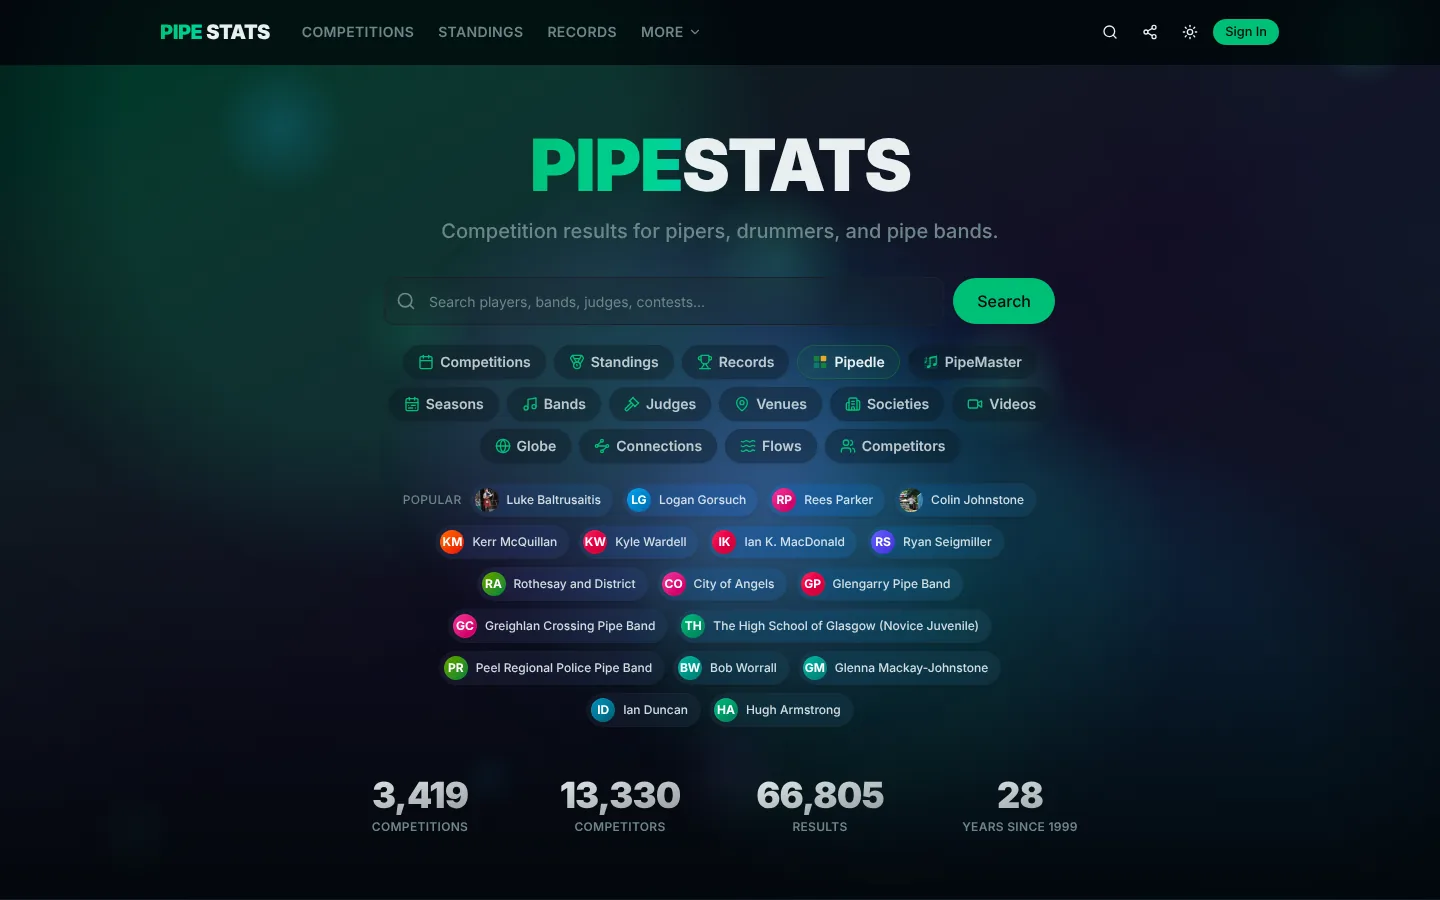
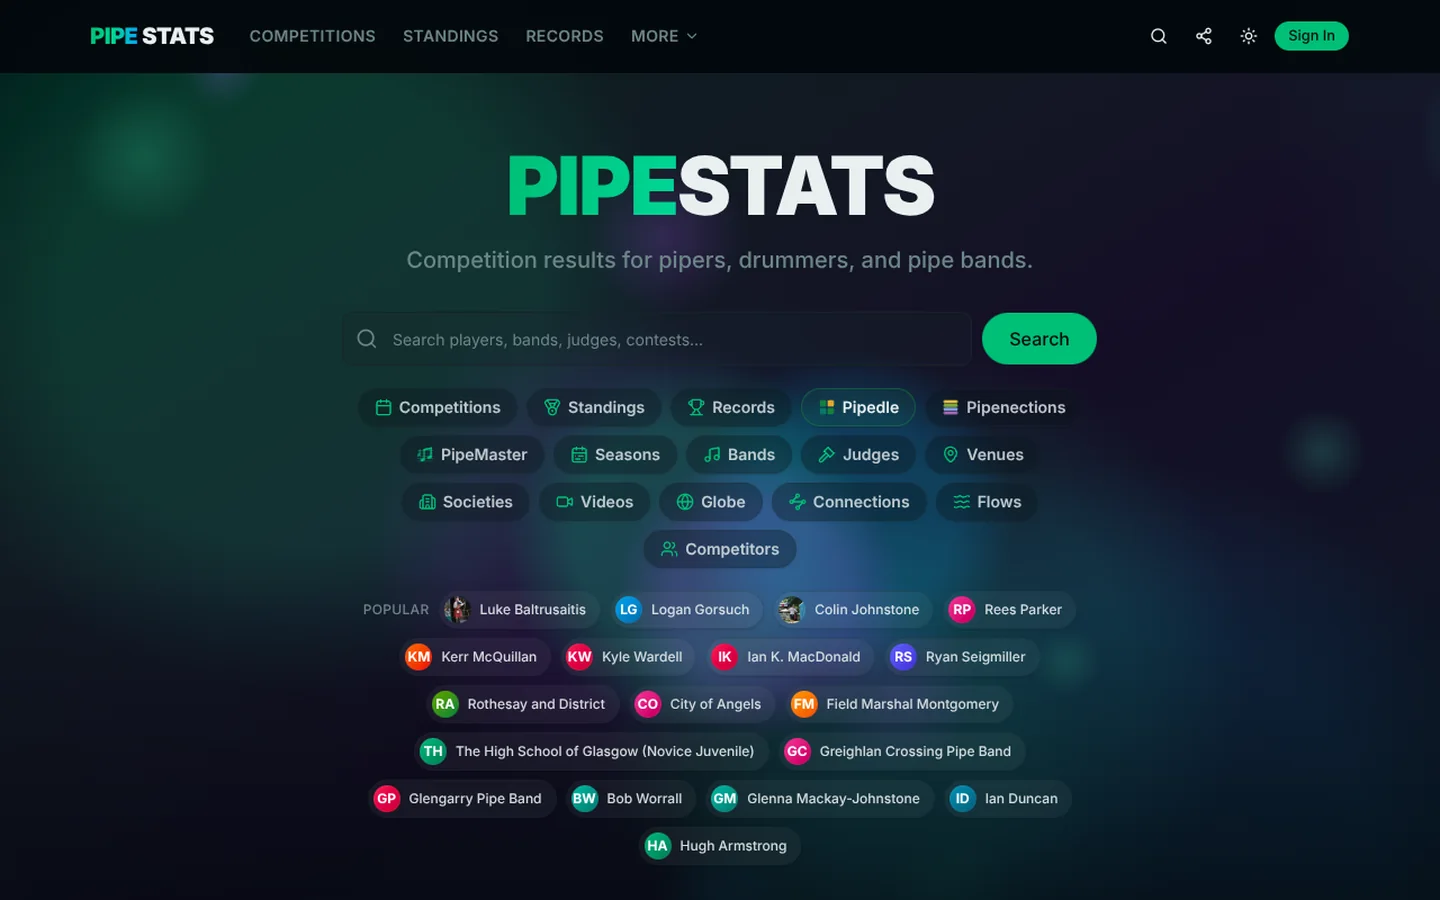
Update the Pipe Stats section with Pipenections, Connections and Flows
New screenshots, taken from the latest Pipe Stats code run locally against
its public data: Connections (who competes against whom), Flows (Sankey
diagrams of grade and society movement) and Pipenections (the new daily
group-the-tiles game, shown on a past puzzle so today's answers stay hidden).
Connections and Flows are new tabs in the Pipe Stats showcase, Pipenections
is a third card under Inside Pipe Stats, and the home screenshot shows the
new quick links.

Totals now come from the database: 3,471 competitions, 13,593 competitors
and 258,016 results (190,808 solo and 67,208 band). The earlier 66,805 was
the band results alone.

Claude-Session: https://claude.ai/code/session_01HEi2GT7JxVwUBsLGpk56Zs

diff --git a/index.html b/index.html
@@ -214,10 +214,12 @@
           <li><b>Search</b> competitors, bands, judges and venues, each with a full results history</li>
           <li><b>Standings and records</b> by season and grade, plus all-time wins, streaks and milestones</li>
           <li><b>A 3D globe</b> of contests and venues</li>
+          <li><b>Connections:</b> a map of who competes against whom, with solo players and bands clustered by the contests they share, and the judges who judge them</li>
+          <li><b>Flows:</b> Sankey diagrams of how players and bands move between grades from season to season, and which societies they travel to</li>
           <li><b>Profiles</b> you can claim, follow and correct, and a form to submit missing results</li>
         </ul>
-        <dl class="facts reveal"><div><dd>3,419</dd><dt>competitions</dt></div><div><dd>13,330</dd><dt>competitors</dt></div><div><dd>66,805</dd><dt>results</dt></div><div><dd>1999</dd><dt>data from</dt></div></dl>
-        <p class="label reveal">Built with <b>Next.js 16, React 19, TypeScript, Tailwind 4, Supabase, MapLibre GL</b><br>Totals as shown on the live homepage, October 2026</p>
+        <dl class="facts reveal"><div><dd>3,471</dd><dt>competitions</dt></div><div><dd>13,593</dd><dt>competitors</dt></div><div><dd>258,016</dd><dt>results</dt></div><div><dd>1999</dd><dt>data from</dt></div></dl>
+        <p class="label reveal">Built with <b>Next.js 16, React 19, TypeScript, Tailwind 4, Supabase, MapLibre GL</b><br>Totals counted from the database, November 2026: 190,808 solo and 67,208 band results</p>
         <div class="actions reveal">
           <a class="btn btn-primary" href="https://pipestats.app" target="_blank" rel="noopener">Visit pipestats.app <svg class="arr" aria-hidden="true"><use href="#i-arrow"/></svg></a>
           <a class="btn btn-ghost" href="https://pipestats.app/competitors/johnstone-colin" target="_blank" rel="noopener">My profile <svg class="arr" aria-hidden="true"><use href="#i-arrow"/></svg></a>
@@ -228,10 +230,12 @@
           <div class="device">
             <div class="device-bar"><i></i><i></i><i></i><span class="url"><svg aria-hidden="true"><use href="#i-lock"/></svg>pipestats.app</span></div>
             <div class="device-screen">
-              <figure class="shot is-active" data-lb data-title="Home" data-caption="<b>Home.</b> Search, quick links to every section and live totals."><img src="assets/img/ps-home.webp" width="1440" height="900" alt="Pipe Stats home page with a search bar, quick links to Competitions, Standings, Records, Pipedle and PipeMaster, and live totals." loading="lazy"></figure>
+              <figure class="shot is-active" data-lb data-title="Home" data-caption="<b>Home.</b> Search, and quick links to every section, including Pipedle, Pipenections, PipeMaster, Connections and Flows."><img src="assets/img/ps-home.webp" width="1440" height="900" alt="Pipe Stats home page with a search bar and quick links to Competitions, Standings, Records, Pipedle, Pipenections, PipeMaster, Connections, Flows and more." loading="lazy"></figure>
               <figure class="shot" data-lb data-title="Standings" data-caption="<b>Standings.</b> The 2026 season by grade, across every society."><img src="assets/img/ps-standings.webp" width="1440" height="900" alt="Pipe Stats 2026 standings page showing season leaders for light music, piobaireachd, drumming and pipe bands." loading="lazy"></figure>
               <figure class="shot" data-lb data-title="Records" data-caption="<b>Records and milestones.</b> Most wins, longest streaks, longest careers."><img src="assets/img/ps-records.webp" width="1440" height="900" alt="Pipe Stats records page with cards for most wins and longest winning streak." loading="lazy"></figure>
               <figure class="shot" data-lb data-title="Globe" data-caption="<b>Globe.</b> Every contest and venue, clustered by society."><img src="assets/img/ps-globe.webp" width="1440" height="900" alt="Pipe Stats 3D globe with clusters of contests across North America and the UK." loading="lazy"></figure>
+              <figure class="shot" data-lb data-title="Connections" data-caption="<b>Connections.</b> Solo players as circles, clustered by the contests they share. Switch to bands, add the judges or group by society."><img src="assets/img/ps-connections.webp" width="1440" height="900" alt="Pipe Stats Connections map: thousands of coloured circles in clusters labelled by society and grade, such as EUSPBA Grade 1 and PPBSO Grade 2." loading="lazy"></figure>
+              <figure class="shot" data-lb data-title="Flows" data-caption="<b>Flows.</b> Each column is a season. The bands show where players went next, from grade to grade, with those who joined or stopped."><img src="assets/img/ps-flows.webp" width="1440" height="900" alt="Pipe Stats Flows page: a Sankey diagram of solo players moving between grades from 2021 to 2026, with New and Stopped blocks." loading="lazy"></figure>
             </div>
           </div>
           <div class="tabs" role="tablist" aria-label="Pipe Stats screens"></div>
@@ -243,7 +247,7 @@
     <div style="margin-top:clamp(56px,8vw,104px)">
       <div class="subhead">
         <h3 class="h3 reveal">Inside Pipe Stats</h3>
-        <p class="reveal">Two tools I built into the site. Both run in the browser at the links below.</p>
+        <p class="reveal">Two games and a tool I built into the site. All three run in the browser at the links below.</p>
       </div>
       <div class="sub-grid">
         <article class="sub-card reveal" data-gallery="PipeMaster" id="pipemaster">
@@ -277,6 +281,23 @@
             <p>A daily word puzzle about piping, drumming and the Highland games. You get six guesses and a category hint, and every answer comes with a short explanation, so it teaches the vocabulary as you play. Signed-in players get streaks, stats and a daily leaderboard.</p>
             <div class="actions">
               <a class="btn btn-primary btn-sm" href="https://pipestats.app/pipedle" target="_blank" rel="noopener">Play today’s Pipedle <svg class="arr" aria-hidden="true"><use href="#i-arrow"/></svg></a>
+            </div>
+          </div>
+        </article>
+        <article class="sub-card reveal" style="--d:240" data-gallery="Pipenections" id="pipenections">
+          <div class="device">
+            <div class="device-bar"><i></i><i></i><i></i><span class="url"><svg aria-hidden="true"><use href="#i-lock"/></svg>pipestats.app/pipenections</span></div>
+            <div class="device-screen" data-showcase-mini>
+              <figure class="shot is-active" data-lb data-title="Board" data-caption="<b>Pipenections #4.</b> Sixteen tiles to sort into four groups of four."><img src="assets/img/pn-board.webp" width="1440" height="900" alt="Pipenections board with sixteen word tiles, including SPEYSIDE, UILLEANN, GRIP and WARRANT, and four mistakes remaining." loading="lazy"></figure>
+              <figure class="shot" data-lb data-title="Solved" data-caption="<b>Solved.</b> The four groups run from easiest (yellow) to trickiest (purple), with a streak and stats."><img src="assets/img/pn-solved.webp" width="1440" height="900" alt="A solved Pipenections puzzle: whisky regions, bagpipes of other lands, light music embellishments and hidden Scottish islands, with play statistics underneath." loading="lazy"></figure>
+            </div>
+          </div>
+          <div class="sub-body">
+            <span class="path">pipestats.app/pipenections</span>
+            <h4>Pipenections</h4>
+            <p>A daily puzzle: sort sixteen piping, drumming and Highland games words into four groups of four. The groups run from easiest to trickiest, and four wrong guesses ends the game. Players get streaks, stats and weekly and monthly leaderboards.</p>
+            <div class="actions">
+              <a class="btn btn-primary btn-sm" href="https://pipestats.app/pipenections" target="_blank" rel="noopener">Play today’s Pipenections <svg class="arr" aria-hidden="true"><use href="#i-arrow"/></svg></a>
             </div>
           </div>
         </article>

diff --git a/about/index.html b/about/index.html
@@ -128,7 +128,7 @@
         <ol class="timeline">
           <li class="tl-item now" data-cat="cibc"><div class="tl-date"><b>Now</b>Feb 2026 –</div><div class="tl-body"><span class="tag">CIBC</span><h3>Senior Consultant, Authentication Services</h3><p>Working in Authentication Services at CIBC, in Toronto.</p></div></li>
           <li class="tl-item" data-cat="teaching"><div class="tl-date"><b>Ongoing</b>&nbsp;</div><div class="tl-body"><span class="tag">Teaching</span><h3>Private bagpipe tutoring</h3><p>Still tutoring privately, with students from 12 to 65 years old. To run the lessons I built Bagpipe Studio and open-sourced it. <a class="link" href="https://github.com/ColinJohnstone/bagpipe-studio-template" target="_blank" rel="noopener">View on GitHub.</a></p></div></li>
-          <li class="tl-item" data-cat="other"><div class="tl-date"><b>Ongoing</b>&nbsp;</div><div class="tl-body"><span class="tag">Building</span><h3>Pipe Stats</h3><p>I built and run the results database for competitive piping and drumming: 66,805 results from 3,419 competitions. <a class="link" href="../#pipe-stats">See the project.</a></p></div></li>
+          <li class="tl-item" data-cat="other"><div class="tl-date"><b>Ongoing</b>&nbsp;</div><div class="tl-body"><span class="tag">Building</span><h3>Pipe Stats</h3><p>I built and run the results database for competitive piping and drumming: 258,016 results from 3,471 competitions. <a class="link" href="../#pipe-stats">See the project.</a></p></div></li>
           <li class="tl-item" data-cat="teaching"><div class="tl-date"><b>2016–26</b>Jan – Feb</div><div class="tl-body"><span class="tag">St. Andrew’s College</span><h3>Bagpipe instructor</h3><p>Taught bagpipes part time at SAC in Aurora for ten years, from January 2016 to February 2026.</p></div></li>
           <li class="tl-item" data-cat="cibc"><div class="tl-date"><b>2025–26</b>Mar – Feb</div><div class="tl-body"><span class="tag">CIBC</span><h3>Cyber Security Researcher</h3><p>Researcher in Cyber Security Innovation and Evolution.</p></div></li>
           <li class="tl-item" data-cat="cibc"><div class="tl-date"><b>2024–25</b>Feb – Mar</div><div class="tl-body"><span class="tag">CIBC</span><h3>Information Security Consultant</h3><p>Identity and Access Lifecycle Management.</p></div></li>

diff --git a/assets/css/site.css b/assets/css/site.css
@@ -240,7 +240,7 @@ ul,ol{padding:0;list-style:none}
 /* 14 · sub-projects (inside Pipe Stats) and side projects ------------------------------------------------------------------------------- */
 .subhead{display:grid;grid-template-columns:minmax(0,5fr) minmax(0,7fr);gap:clamp(20px,5vw,80px);margin-bottom:28px;align-items:end;padding-top:20px;border-top:1px solid var(--ink)}
 .subhead p{color:var(--ink-2);max-width:52ch}
-.sub-grid{display:grid;grid-template-columns:repeat(2,minmax(0,1fr));gap:clamp(24px,3.4vw,48px)}
+.sub-grid{display:grid;grid-template-columns:repeat(3,minmax(0,1fr));gap:clamp(24px,3.4vw,48px)}
 .sub-card{display:grid;gap:22px;align-content:start}
 .sub-body{display:grid;gap:12px;max-width:52ch}
 .sub-body h4{color:var(--ink);font:600 clamp(1.7rem,1.3rem + 1.2vw,2.3rem)/1 var(--font);letter-spacing:-.045em}
@@ -390,6 +390,8 @@ html:not(.js) .bars .track i{width:var(--w)}
   .split .sticky{position:static}
   .split .sticky .h2{max-width:none}
   .section-head,.subhead{grid-template-columns:1fr}
+  .sub-grid{grid-template-columns:1fr}
+  .sub-card{max-width:640px}
 }
 @media (max-width:900px){
   .nav{display:none}
